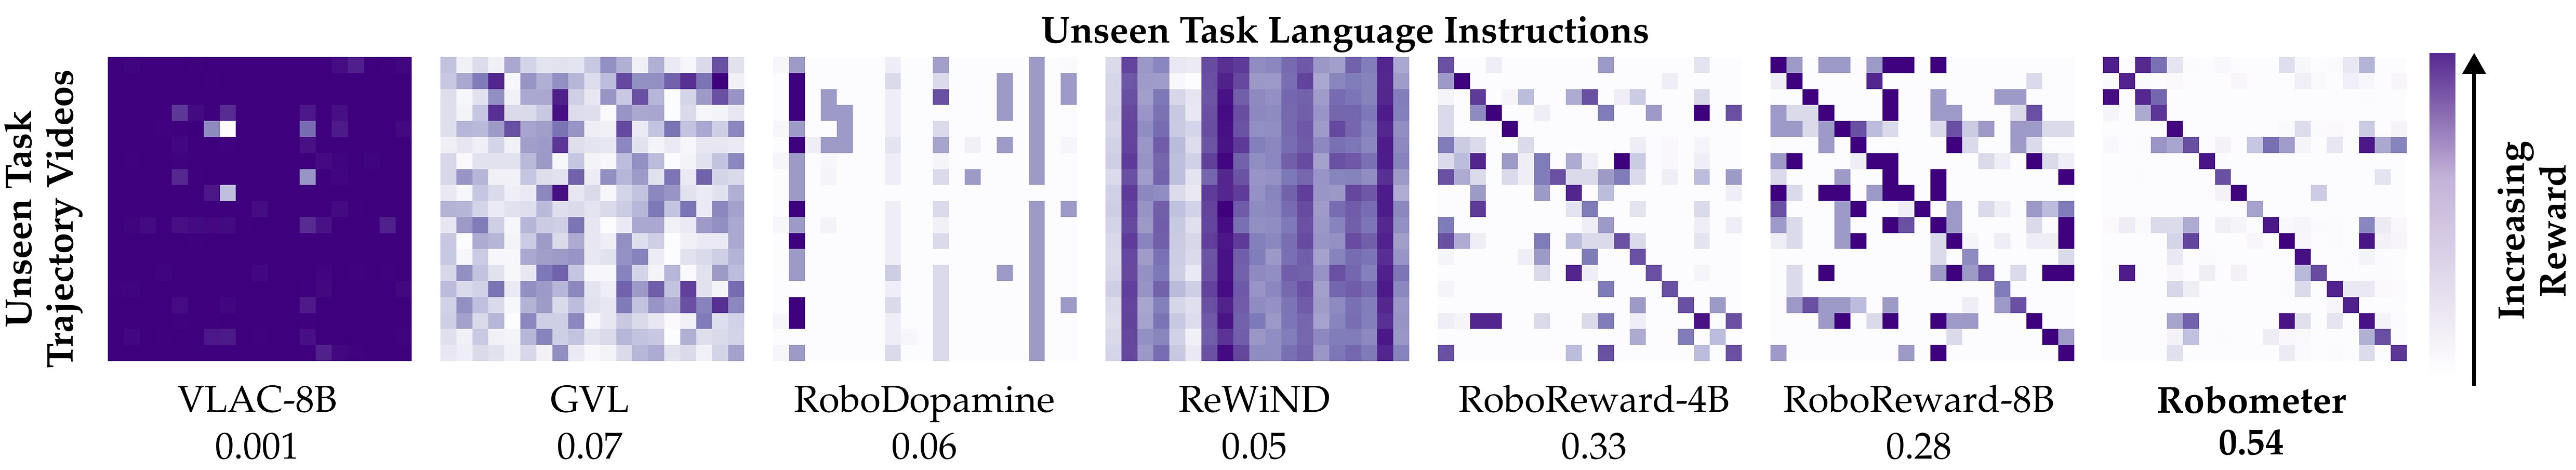
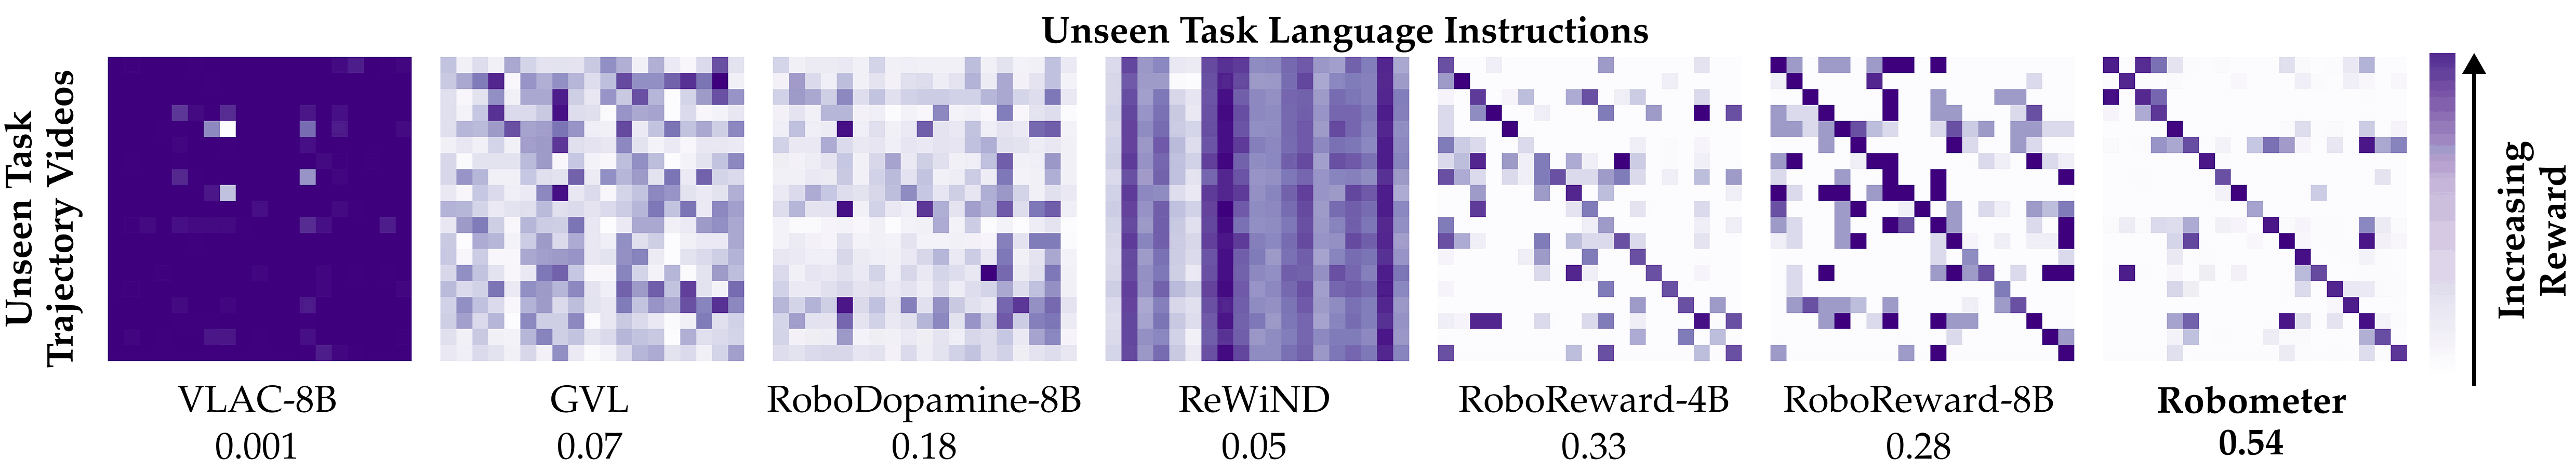
update robodopamine-8b results to replace the old 3B model at request of authors, added eval ood link

Changed region(s): [[0.2795, 0.1239, 0.4349, 0.7743], [0.2795, 0.8053, 0.4349, 0.8982], [0.3417, 0.9292, 0.3727, 0.9602]]

diff --git a/index.html b/index.html
@@ -684,7 +684,11 @@
         </a>
         <a class="button is-warning" href="#" target="_blank">
           <span class="icon"><i class="fas fa-database"></i></span>
-          <span>RBM-1M Dataset (Coming Soon)</span>
+          <span>RBM-1M Data (Coming Soon)</span>
+        </a>
+        <a class="button is-warning" href="https://huggingface.co/datasets/robometer/rbm-1m-ood" target="_blank">
+          <span class="icon"><i class="fas fa-database"></i></span>
+          <span>OOD Eval Data</span>
         </a>
         <a class="button is-success" href="https://huggingface.co/robometer/Robometer-4B" target="_blank">
           <span class="icon"><i class="fas fa-cube"></i></span>
@@ -955,7 +959,7 @@
               <tr>
                 <th>GVL</th>
                 <th>VLAC</th>
-                <th>RoboDopamine</th>
+                <th>RoboDopamine-8B</th>
                 <th>TOPReward</th>
                 <th>RoboReward-4B</th>
                 <th>RoboReward-8B</th>
@@ -966,10 +970,10 @@
             </thead>
             <tbody>
               <tr class="separator-row"><td colspan="10"><strong>(a) Reward alignment (VOC Pearson $r$) ↑</strong></td></tr>
-              <tr><td>RBM-EVAL-ID</td><td>0.16</td><td>0.16</td><td>0.13</td><td>0.78</td><td>0.77</td><td>0.82</td><td>0.84</td><td>0.46</td><td class="ours best"><strong>0.92</strong></td></tr>
-              <tr><td>RBM-EVAL-OOD</td><td>0.21</td><td>0.17</td><td>0.08</td><td>0.78</td><td>0.88</td><td>0.88</td><td>0.93</td><td>0.51</td><td class="ours best"><strong>0.95</strong></td></tr>
+              <tr><td>RBM-EVAL-ID</td><td>0.16</td><td>0.16</td><td>0.75</td><td>0.78</td><td>0.77</td><td>0.82</td><td>0.84</td><td>0.46</td><td class="ours best"><strong>0.92</strong></td></tr>
+              <tr><td>RBM-EVAL-OOD</td><td>0.21</td><td>0.17</td><td>0.74</td><td>0.78</td><td>0.88</td><td>0.88</td><td>0.93</td><td>0.51</td><td class="ours best"><strong>0.95</strong></td></tr>
               <tr class="separator-row"><td colspan="10"><strong>(b) Trajectory ranking (Kendall $\tau$) ↑</strong></td></tr>
-              <tr><td>RBM-EVAL-OOD</td><td>0.19</td><td>0.08</td><td>0.11</td><td>0.22</td><td>0.50</td><td>0.47</td><td>0.55</td><td>0.01</td><td class="ours best"><strong>0.66</strong></td></tr>
+              <tr><td>RBM-EVAL-OOD</td><td>0.19</td><td>0.08</td><td>0.39</td><td>0.22</td><td>0.50</td><td>0.47</td><td>0.55</td><td>0.01</td><td class="ours best"><strong>0.66</strong></td></tr>
             </tbody>
           </table>
         </div>
@@ -1003,7 +1007,7 @@
             <tr>
               <th>GVL</th>
               <th>VLAC-8B</th>
-              <th>RoboDopamine</th>
+              <th>RoboDopamine-8B</th>
               <th>RoboReward-4B</th>
               <th>RoboReward-8B</th>
               <th>Robometer</th>
@@ -1012,16 +1016,16 @@
             </tr>
           </thead>
           <tbody>
-            <tr><td>RACER</td><td>0.131</td><td>0.156</td><td>0.197</td><td>0.491</td><td>0.652</td><td>0.937</td><td>0.561</td><td class="ours best"><strong>0.943</strong></td></tr>
-            <tr><td>OXE (BC-Z)</td><td>0.142</td><td>−0.150</td><td>−0.109</td><td>0.643</td><td>0.809</td><td>0.683</td><td>0.442</td><td class="ours best"><strong>0.922</strong></td></tr>
-            <tr><td>OXE (Berkeley Cable Routing)</td><td>0.075</td><td>−0.425</td><td>−0.384</td><td>0.657</td><td>0.801</td><td class="best">0.900</td><td>0.491</td><td class="ours">0.887</td></tr>
-            <tr><td>OXE (Bridge V2)</td><td>0.143</td><td>−0.875</td><td>−0.834</td><td>0.891</td><td>0.898</td><td>0.633</td><td>0.526</td><td class="ours best"><strong>0.920</strong></td></tr>
-            <tr><td>OXE (Jaco Play)</td><td>0.114</td><td>−0.151</td><td>−0.110</td><td>0.793</td><td>0.785</td><td>0.861</td><td>0.550</td><td class="ours best"><strong>0.872</strong></td></tr>
-            <tr><td>OXE (Toto)</td><td>0.254</td><td>−0.416</td><td>−0.375</td><td>0.886</td><td>0.939</td><td class="best">0.947</td><td>0.340</td><td class="ours">0.930</td></tr>
-            <tr><td>OXE (Viola)</td><td>0.264</td><td>0.479</td><td>0.520</td><td>0.915</td><td>0.896</td><td class="best">0.967</td><td>−0.014</td><td class="ours">0.947</td></tr>
-            <tr><td>Metaworld</td><td>0.134</td><td>0.211</td><td>0.252</td><td>0.746</td><td>0.779</td><td>0.737</td><td>0.630</td><td class="ours best"><strong>0.900</strong></td></tr>
-            <tr><td>Libero (90)</td><td>0.254</td><td>0.217</td><td>0.258</td><td>0.874</td><td>0.846</td><td>0.912</td><td>0.592</td><td class="ours best"><strong>0.967</strong></td></tr>
-            <tr class="ours"><td><strong>Average</strong></td><td>0.168</td><td>0.089</td><td>0.130</td><td>0.766</td><td>0.823</td><td>0.842</td><td>0.458</td><td class="best"><strong>0.921</strong></td></tr>
+            <tr><td>RACER</td><td>0.131</td><td>0.156</td><td>0.710</td><td>0.491</td><td>0.652</td><td>0.937</td><td>0.561</td><td class="ours best"><strong>0.943</strong></td></tr>
+            <tr><td>OXE (BC-Z)</td><td>0.142</td><td>−0.150</td><td>0.749</td><td>0.643</td><td>0.809</td><td>0.683</td><td>0.442</td><td class="ours best"><strong>0.922</strong></td></tr>
+            <tr><td>OXE (Berkeley Cable Routing)</td><td>0.075</td><td>−0.425</td><td>0.703</td><td>0.657</td><td>0.801</td><td class="best">0.900</td><td>0.491</td><td class="ours">0.887</td></tr>
+            <tr><td>OXE (Bridge V2)</td><td>0.143</td><td>−0.875</td><td>0.834</td><td>0.891</td><td>0.898</td><td>0.633</td><td>0.526</td><td class="ours best"><strong>0.920</strong></td></tr>
+            <tr><td>OXE (Jaco Play)</td><td>0.114</td><td>−0.151</td><td>0.849</td><td>0.793</td><td>0.785</td><td>0.861</td><td>0.550</td><td class="ours best"><strong>0.872</strong></td></tr>
+            <tr><td>OXE (Toto)</td><td>0.254</td><td>−0.416</td><td>0.688</td><td>0.886</td><td>0.939</td><td class="best">0.947</td><td>0.340</td><td class="ours">0.930</td></tr>
+            <tr><td>OXE (Viola)</td><td>0.264</td><td>0.479</td><td>0.685</td><td>0.915</td><td>0.896</td><td class="best">0.967</td><td>−0.014</td><td class="ours">0.947</td></tr>
+            <tr><td>Metaworld</td><td>0.134</td><td>0.211</td><td>0.682</td><td>0.746</td><td>0.779</td><td>0.737</td><td>0.630</td><td class="ours best"><strong>0.900</strong></td></tr>
+            <tr><td>Libero (90)</td><td>0.254</td><td>0.217</td><td>0.875</td><td>0.874</td><td>0.846</td><td>0.912</td><td>0.592</td><td class="ours best"><strong>0.967</strong></td></tr>
+            <tr class="ours"><td><strong>Average</strong></td><td>0.168</td><td>0.089</td><td>0.753</td><td>0.766</td><td>0.823</td><td>0.842</td><td>0.458</td><td class="best"><strong>0.921</strong></td></tr>
           </tbody>
         </table>
       </div>
@@ -1041,7 +1045,7 @@
             <tr>
               <th>GVL</th>
               <th>VLAC-8B</th>
-              <th>RoboDopamine</th>
+              <th>RoboDopamine-8B</th>
               <th>RoboReward-4B</th>
               <th>RoboReward-8B</th>
               <th>Robometer</th>
@@ -1050,13 +1054,13 @@
             </tr>
           </thead>
           <tbody>
-            <tr><td>USC Franka</td><td>0.102</td><td>0.356</td><td>0.061</td><td>0.909</td><td>0.909</td><td>0.959</td><td>0.772</td><td class="ours best"><strong>0.959</strong></td></tr>
-            <tr><td>USC Koch</td><td>0.176</td><td>0.074</td><td>−0.221</td><td>0.866</td><td>0.916</td><td class="best">0.969</td><td>0.585</td><td class="ours">0.950</td></tr>
-            <tr><td>USC Trossen</td><td>0.542</td><td>0.256</td><td>−0.039</td><td>0.781</td><td>0.726</td><td class="best">0.925</td><td>0.226</td><td class="ours">0.911</td></tr>
-            <tr><td>USC xArm</td><td>0.282</td><td>0.454</td><td>0.159</td><td>0.896</td><td>0.914</td><td>0.951</td><td>0.435</td><td class="ours best"><strong>0.961</strong></td></tr>
-            <tr><td>MIT Franka</td><td>0.268</td><td>0.601</td><td>0.306</td><td>0.896</td><td>0.899</td><td>0.868</td><td>0.531</td><td class="ours best"><strong>0.954</strong></td></tr>
-            <tr><td>UT Dallas SO101</td><td>0.203</td><td>0.511</td><td>0.216</td><td>0.926</td><td>0.930</td><td>0.888</td><td>0.497</td><td class="ours best"><strong>0.952</strong></td></tr>
-            <tr class="ours"><td><strong>Average</strong></td><td>0.262</td><td>0.375</td><td>0.080</td><td>0.879</td><td>0.882</td><td>0.927</td><td>0.508</td><td class="best"><strong>0.948</strong></td></tr>
+            <tr><td>USC Franka</td><td>0.102</td><td>0.356</td><td>0.814</td><td>0.909</td><td>0.909</td><td>0.959</td><td>0.772</td><td class="ours best"><strong>0.959</strong></td></tr>
+            <tr><td>USC Koch</td><td>0.176</td><td>0.074</td><td>0.787</td><td>0.866</td><td>0.916</td><td class="best">0.969</td><td>0.585</td><td class="ours">0.950</td></tr>
+            <tr><td>USC Trossen</td><td>0.542</td><td>0.256</td><td>0.509</td><td>0.781</td><td>0.726</td><td class="best">0.925</td><td>0.226</td><td class="ours">0.911</td></tr>
+            <tr><td>USC xArm</td><td>0.282</td><td>0.454</td><td>0.867</td><td>0.896</td><td>0.914</td><td>0.951</td><td>0.435</td><td class="ours best"><strong>0.961</strong></td></tr>
+            <tr><td>MIT Franka</td><td>0.268</td><td>0.601</td><td>0.669</td><td>0.896</td><td>0.899</td><td>0.868</td><td>0.531</td><td class="ours best"><strong>0.954</strong></td></tr>
+            <tr><td>UT Dallas SO101</td><td>0.203</td><td>0.511</td><td>0.811</td><td>0.926</td><td>0.930</td><td>0.888</td><td>0.497</td><td class="ours best"><strong>0.952</strong></td></tr>
+            <tr class="ours"><td><strong>Average</strong></td><td>0.262</td><td>0.375</td><td>0.743</td><td>0.879</td><td>0.882</td><td>0.927</td><td>0.508</td><td class="best"><strong>0.948</strong></td></tr>
           </tbody>
         </table>
       </div>
@@ -1075,7 +1079,7 @@
               <th>GVL</th>
               <th>VLAC-2B</th>
               <th>VLAC-8B</th>
-              <th>RoboDopamine</th>
+              <th>RoboDopamine-8B</th>
               <th>RoboReward-4B</th>
               <th>RoboReward-8B</th>
               <th>Robometer</th>
@@ -1084,13 +1088,13 @@
             </tr>
           </thead>
           <tbody>
-            <tr><td>USC Franka</td><td>0.250</td><td>0.292</td><td>0.271</td><td>0.167</td><td>0.625</td><td>0.625</td><td>0.583</td><td>−0.125</td><td class="ours best"><strong>0.646</strong></td></tr>
-            <tr><td>USC Koch</td><td>−0.008</td><td>0.167</td><td>0.064</td><td>0.175</td><td>0.332</td><td>0.264</td><td class="best">0.533</td><td>0.336</td><td class="ours">0.471</td></tr>
-            <tr><td>USC Trossen</td><td>0.292</td><td>−0.111</td><td>−0.417</td><td>0.000</td><td>0.333</td><td>0.389</td><td>0.646</td><td>0.028</td><td class="ours best"><strong>0.653</strong></td></tr>
-            <tr><td>USC xArm</td><td>0.056</td><td>0.167</td><td>0.139</td><td>0.014</td><td>0.528</td><td>0.347</td><td>0.403</td><td>−0.167</td><td class="ours best"><strong>0.694</strong></td></tr>
-            <tr><td>MIT Franka</td><td>0.306</td><td>−0.017</td><td>0.072</td><td>0.220</td><td>0.494</td><td>0.396</td><td>0.479</td><td>0.080</td><td class="ours best"><strong>0.601</strong></td></tr>
-            <tr><td>UT Dallas SO101</td><td>0.300</td><td>−0.033</td><td>0.167</td><td>0.067</td><td>0.700</td><td>0.767</td><td>0.667</td><td>−0.067</td><td class="ours best"><strong>0.867</strong></td></tr>
-            <tr class="ours"><td><strong>Average</strong></td><td>0.199</td><td>0.077</td><td>0.049</td><td>0.107</td><td>0.502</td><td>0.465</td><td>0.552</td><td>0.014</td><td class="best"><strong>0.655</strong></td></tr>
+            <tr><td>USC Franka</td><td>0.250</td><td>0.292</td><td>0.271</td><td>0.479</td><td>0.625</td><td>0.625</td><td>0.583</td><td>−0.125</td><td class="ours best"><strong>0.646</strong></td></tr>
+            <tr><td>USC Koch</td><td>−0.008</td><td>0.167</td><td>0.064</td><td>0.420</td><td>0.332</td><td>0.264</td><td class="best">0.533</td><td>0.336</td><td class="ours">0.471</td></tr>
+            <tr><td>USC Trossen</td><td>0.292</td><td>−0.111</td><td>−0.417</td><td>0.236</td><td>0.333</td><td>0.389</td><td>0.646</td><td>0.028</td><td class="ours best"><strong>0.653</strong></td></tr>
+            <tr><td>USC xArm</td><td>0.056</td><td>0.167</td><td>0.139</td><td>0.361</td><td>0.528</td><td>0.347</td><td>0.403</td><td>−0.167</td><td class="ours best"><strong>0.694</strong></td></tr>
+            <tr><td>MIT Franka</td><td>0.306</td><td>−0.017</td><td>0.072</td><td>0.283</td><td>0.494</td><td>0.396</td><td>0.479</td><td>0.080</td><td class="ours best"><strong>0.601</strong></td></tr>
+            <tr><td>UT Dallas SO101</td><td>0.300</td><td>−0.033</td><td>0.167</td><td>0.567</td><td>0.700</td><td>0.767</td><td>0.667</td><td>−0.067</td><td class="ours best"><strong>0.867</strong></td></tr>
+            <tr class="ours"><td><strong>Average</strong></td><td>0.199</td><td>0.077</td><td>0.049</td><td>0.391</td><td>0.502</td><td>0.465</td><td>0.552</td><td>0.014</td><td class="best"><strong>0.655</strong></td></tr>
           </tbody>
         </table>
       </div>